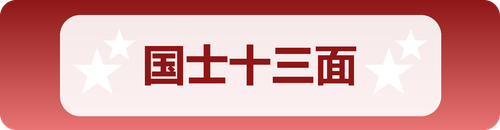
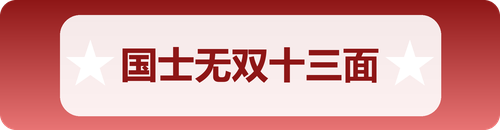
麻将：新增累计役满称号，国士十三面改名国士无双十三面
- 新增 kazoe（累计役满），排四杠子之后、天和之前
- 国士十三面 -> 国士无双十三面，key 不变、已发出的记录不受影响
- 称号总数 17 -> 18，前端字典与云端白名单同步
- 修正称号图生成器的装饰缩放：坐标倍率和尺寸缩放混用一个变量，
  长称号（装饰需缩小）时坐标被连带缩小、装饰跑到内框外被裁；
  顺带重出四暗刻单骑、纯正九莲宝灯、国士无双十三面三张长称号图

Changed region(s): [[0.24, 0.3385, 0.78, 0.6769]]

diff --git a/miniprogram/utils/mahjongTitles.js b/miniprogram/utils/mahjongTitles.js
@@ -1,5 +1,5 @@
 /**
- * 麻将称号字典（17 种役满/满贯/罚符）
+ * 麻将称号字典（18 种役满/满贯/罚符）
  *
  * key 一旦上线就不要再改（已发出的称号记录会引用它）；可新增，勿删除/改名。
  *
@@ -15,7 +15,7 @@ export const VALID_TITLE_KEYS = [
   'kokushi', 'kokushijuusanmen', 'shousuushii',
   'tsuuiisou', 'chinroutou', 'daisuushii',
   'chuuren', 'chuurenjunsei', 'ryuuiisou',
-  'suukantsu', 'tenhou', 'chihou', 'nagashi', 'chonbo'
+  'suukantsu', 'kazoe', 'tenhou', 'chihou', 'nagashi', 'chonbo'
 ];
 
 const TITLES = [
@@ -23,7 +23,7 @@ const TITLES = [
   { key: 'suankoutanki',     name: '四暗刻单骑',   img: '/images/titles/suankoutanki.png' },      // ★★
   { key: 'daisangen',        name: '大三元',       img: '/images/titles/daisangen.png' },
   { key: 'kokushi',          name: '国士无双',     img: '/images/titles/kokushi.png' },
-  { key: 'kokushijuusanmen', name: '国士十三面',   img: '/images/titles/kokushijuusanmen.png' },  // ★★
+  { key: 'kokushijuusanmen', name: '国士无双十三面', img: '/images/titles/kokushijuusanmen.png' },  // ★★
   { key: 'shousuushii',      name: '小四喜',       img: '/images/titles/shousuushii.png' },
   { key: 'tsuuiisou',        name: '字一色',       img: '/images/titles/tsuuiisou.png' },
   { key: 'chinroutou',       name: '清老头',       img: '/images/titles/chinroutou.png' },
@@ -32,6 +32,7 @@ const TITLES = [
   { key: 'chuurenjunsei',    name: '纯正九莲宝灯', img: '/images/titles/chuurenjunsei.png' },     // ★★
   { key: 'ryuuiisou',        name: '绿一色',       img: '/images/titles/ryuuiisou.png' },
   { key: 'suukantsu',        name: '四杠子',       img: '/images/titles/suukantsu.png' },
+  { key: 'kazoe',            name: '累计役满',     img: '/images/titles/kazoe.png' },
   { key: 'tenhou',           name: '天和',         img: '/images/titles/tenhou.png' },
   { key: 'chihou',           name: '地和',         img: '/images/titles/chihou.png' },
   { key: 'nagashi',          name: '流局满贯',     img: '/images/titles/nagashi.png' },

diff --git a/cloudfunctions/baseFunctions/mahjongStats/index.js b/cloudfunctions/baseFunctions/mahjongStats/index.js
@@ -16,7 +16,7 @@ const VALID_TITLE_KEYS = [
   'kokushi', 'kokushijuusanmen', 'shousuushii',
   'tsuuiisou', 'chinroutou', 'daisuushii',
   'chuuren', 'chuurenjunsei', 'ryuuiisou',
-  'suukantsu', 'tenhou', 'chihou', 'nagashi', 'chonbo'
+  'suukantsu', 'kazoe', 'tenhou', 'chihou', 'nagashi', 'chonbo'
 ];
 
 /* ============================================================
